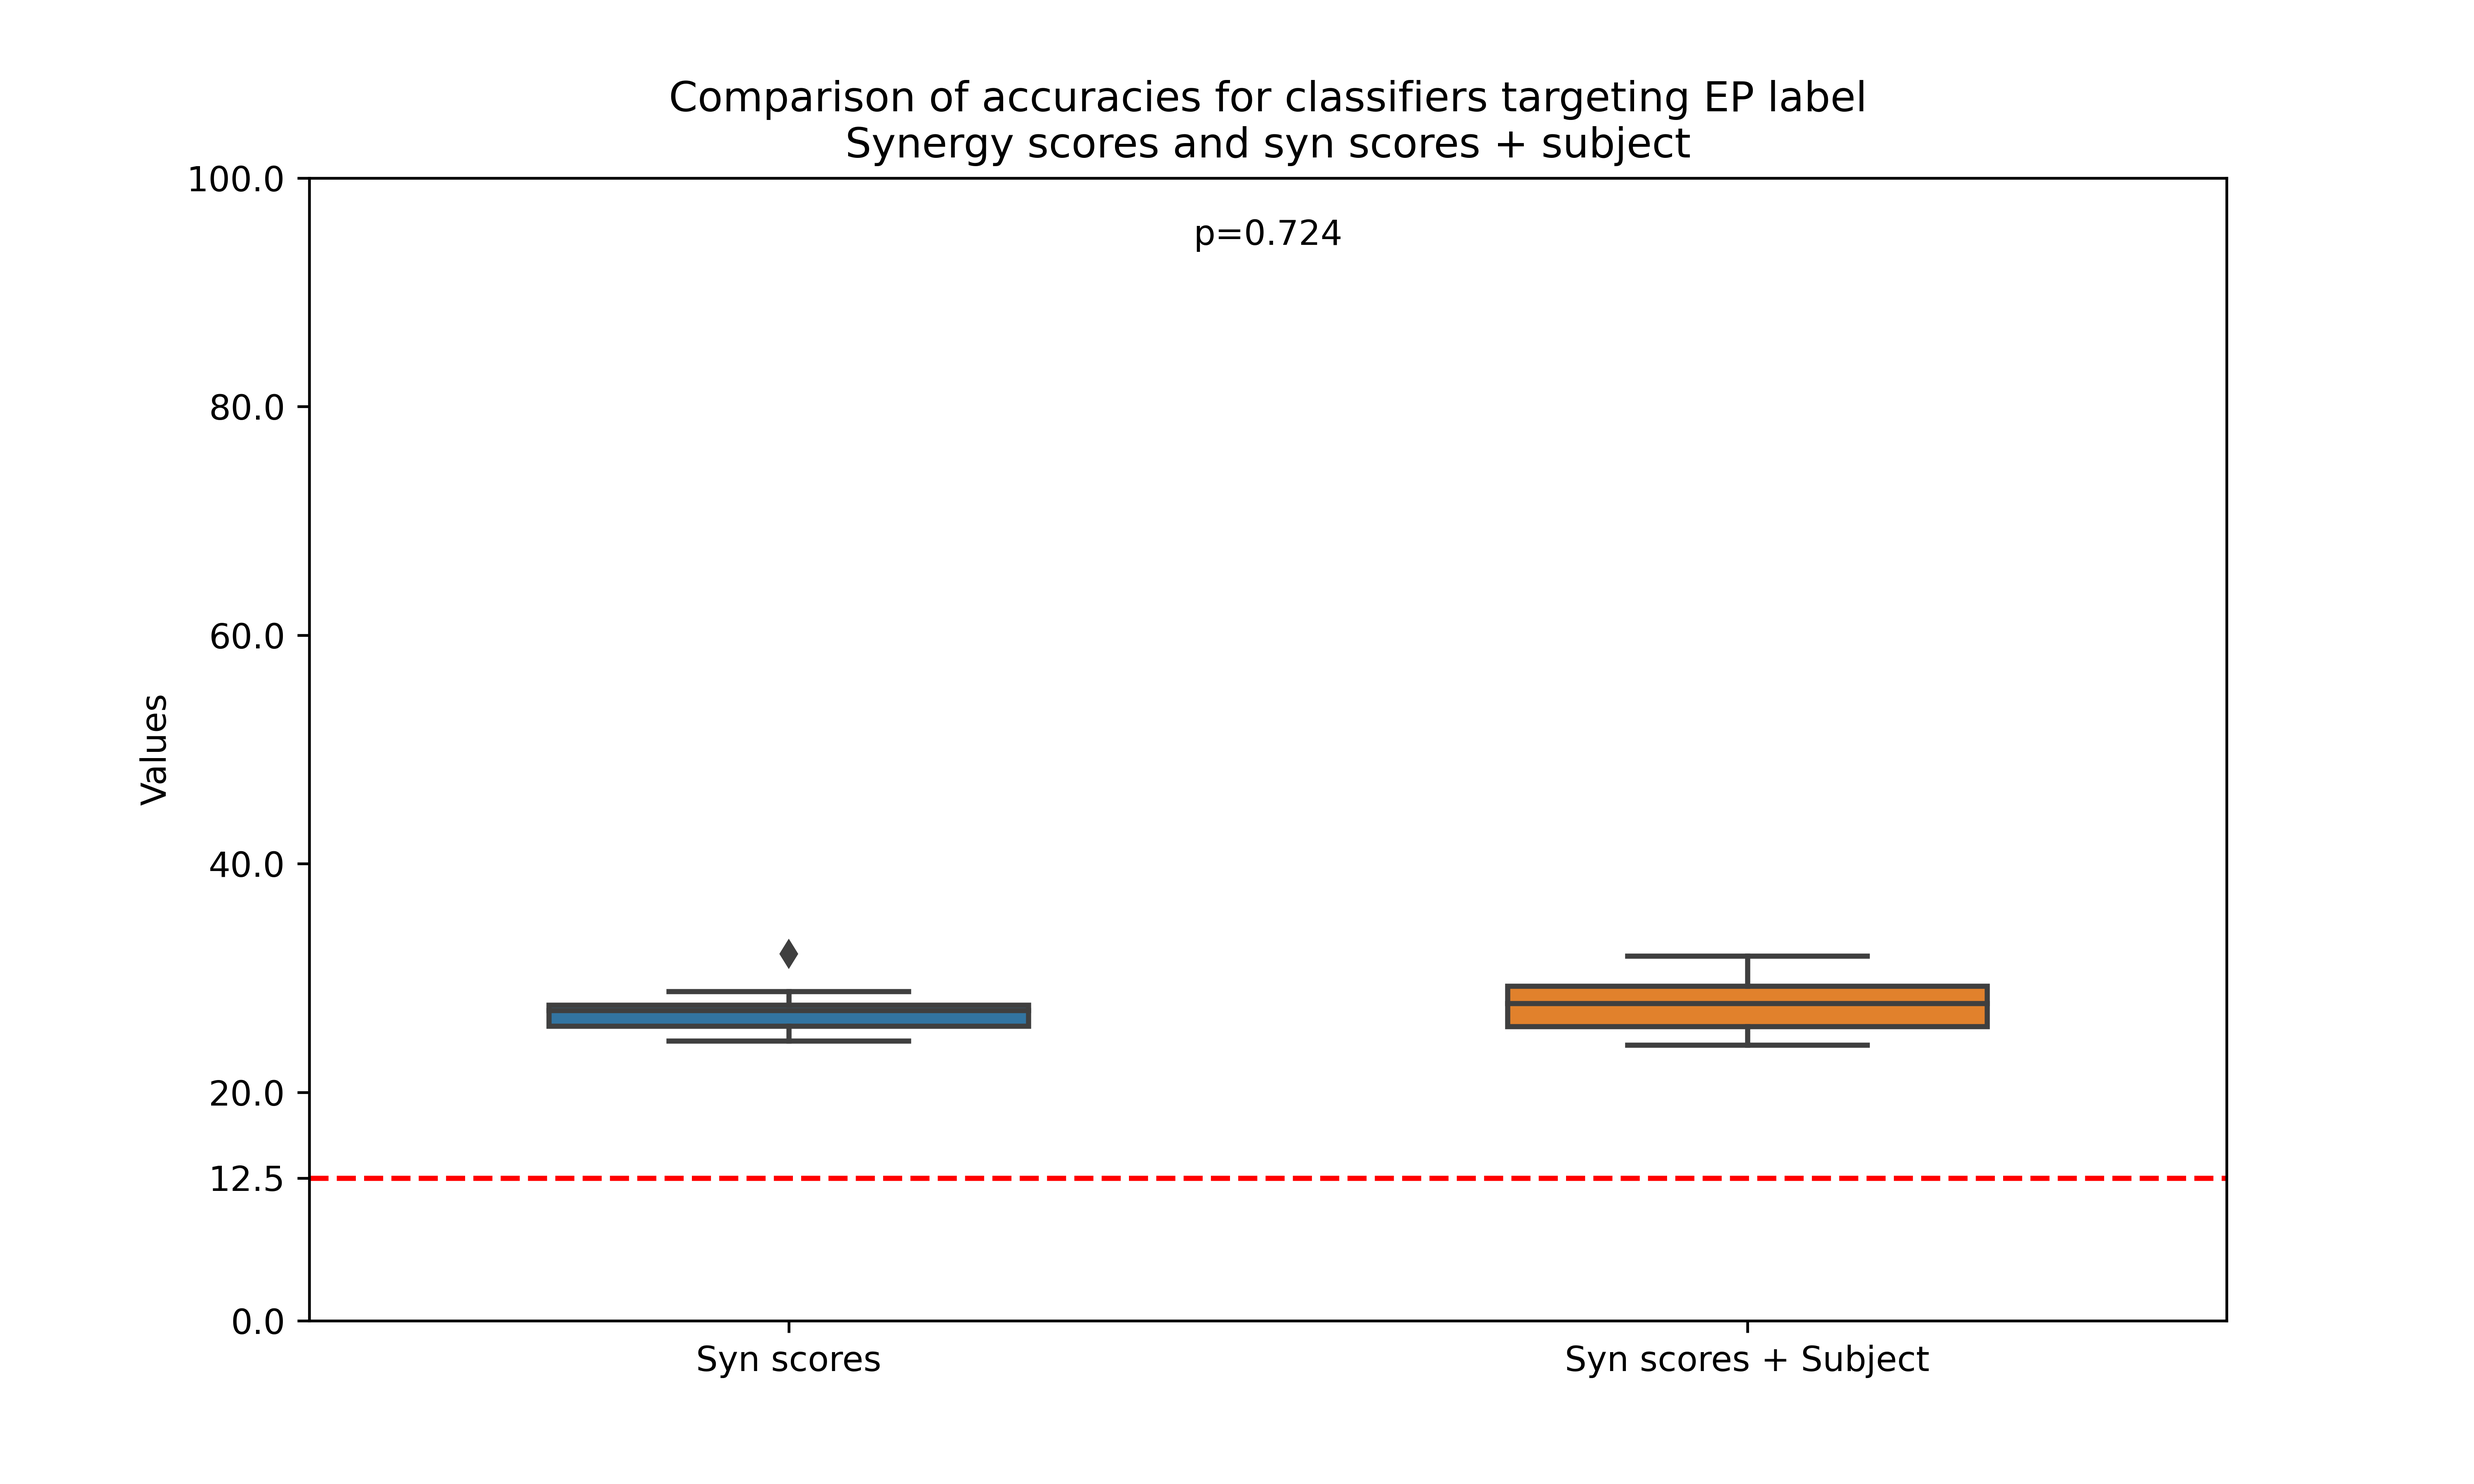
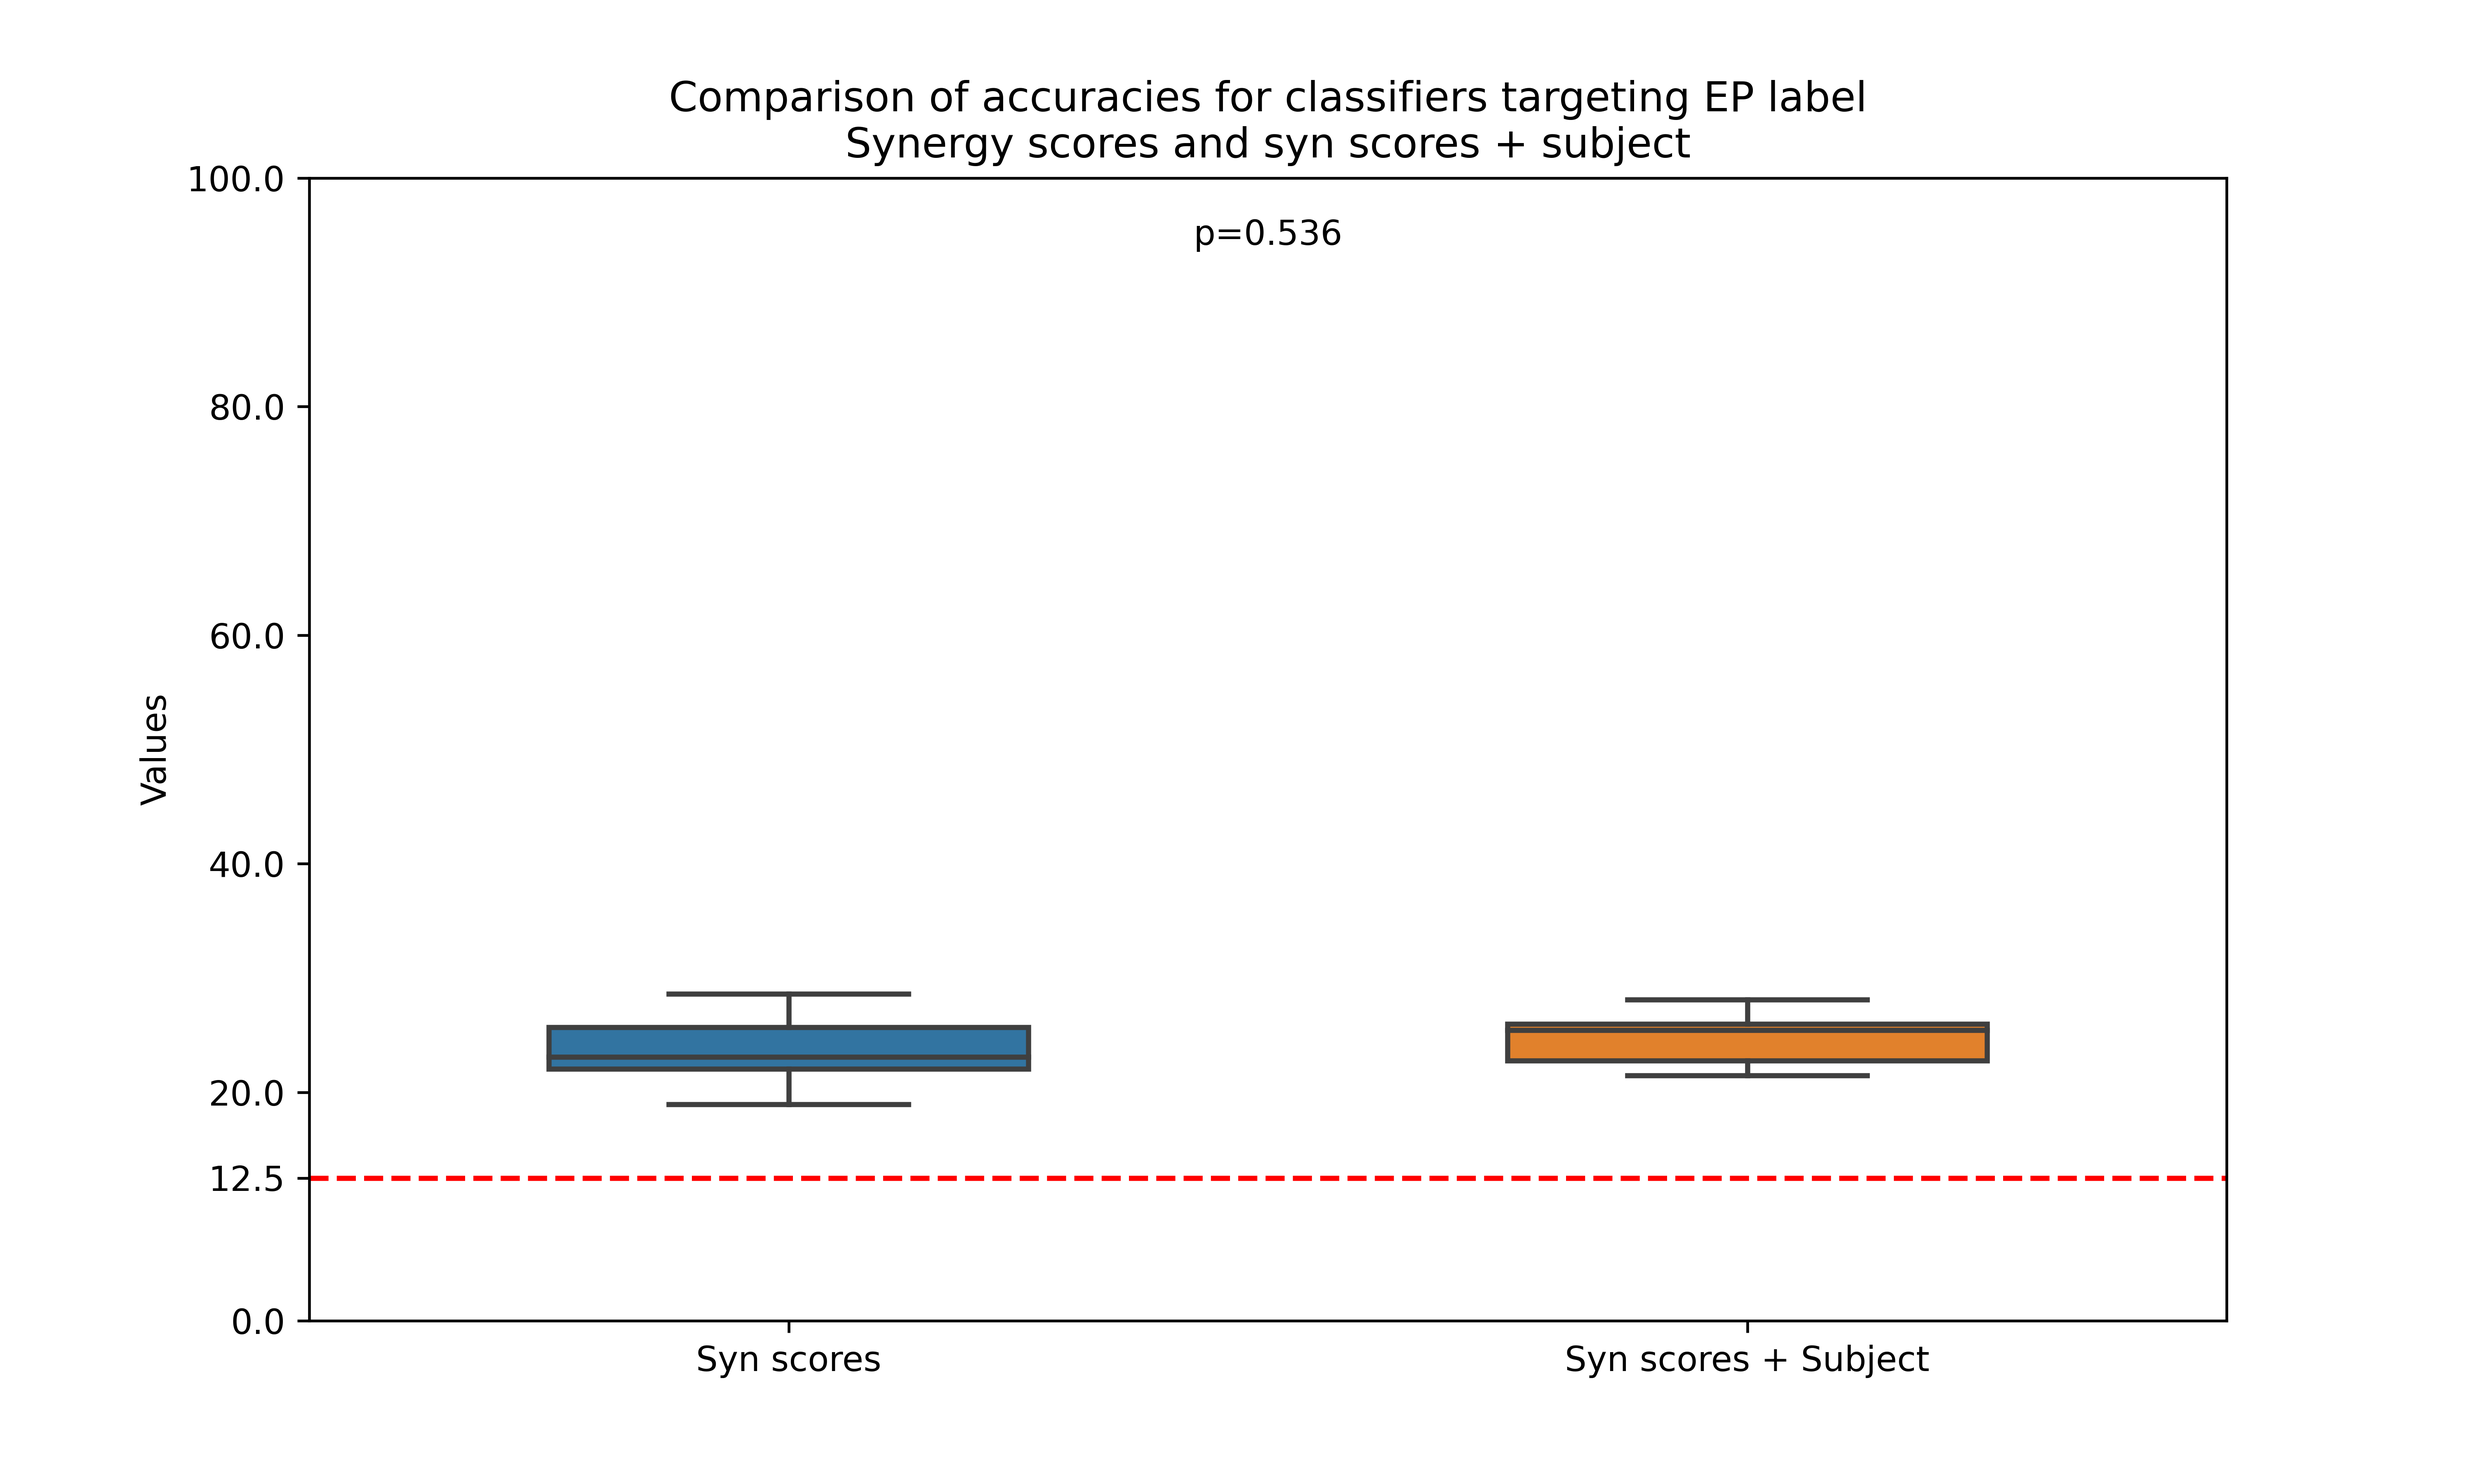
SGD classifier
- Code prepared for EP classification based on synergies, but now using SGD classifier with minibatch training

Changed region(s): [[0.5922, 0.6222, 0.8103, 0.7467], [0.2182, 0.6533, 0.4363, 0.7467]]

diff --git a/PyCode/AllPython/ep_modelling.py b/PyCode/AllPython/ep_modelling.py
@@ -2,9 +2,9 @@ import numpy as np
 import os
 import itertools
 from sklearn.model_selection import StratifiedKFold
-from sklearn.linear_model import LogisticRegression
+from sklearn.linear_model import LogisticRegression, SGDClassifier
 from collections import Counter
-from sklearn.utils.class_weight import compute_sample_weight
+from sklearn.utils.class_weight import compute_sample_weight, compute_class_weight
 from sklearn.preprocessing import OneHotEncoder
 from sklearn.preprocessing import StandardScaler
 from sklearn.decomposition import PCA
@@ -106,7 +106,9 @@ def ep_from_scores_classif(include_suj):
 
         """NOPE"""
 
-        result_kin = pool.map_async(kin_ep_classif, kin_data_and_iter)
+        # result_kin = pool.map_async(kin_ep_classif, kin_data_and_iter)
+        result_kin = pool.map_async(kin_ep_classif_sgdb, kin_data_and_iter)
+
         # result_emg_pca = pool.map_async(emg_pca_syn_classif, emg_pca_data_and_iter)
         # result_tact = pool.map_async(tact_syn_classif, tact_data_and_iter)
 
@@ -229,8 +231,145 @@ def kin_ep_classif(input_data):
             # train model
             trn_weights = compute_sample_weight(class_weight='balanced', y=train_labels)
             log_model.fit(X=train_data, y=train_labels, sample_weight=trn_weights)
-            tst_weights = compute_sample_weight(class_weight='balanced', y=test_labels)
-            sc = round(log_model.score(X=test_data, y=test_labels, sample_weight=tst_weights) * 100, 2)
+            # tst_weights = compute_sample_weight(class_weight='balanced', y=test_labels)
+            # sc = round(log_model.score(X=test_data, y=test_labels, sample_weight=tst_weights) * 100, 2)
+            sc = round(log_model.score(X=test_data, y=test_labels) * 100, 2)
+            total_score.append(sc)
+
+    result = ['Kin']
+    result.extend(input_data[2])
+    result.append(total_score)
+    result.append(round(np.mean(total_score), 2))
+    # print("RESULT:", result)
+
+    return result
+
+def kin_ep_classif_sgdb(input_data):
+
+    kin_scores = input_data[0]
+    extra_data = input_data[1]
+    # perc_syns = input_data[2][0]
+    perc_syns = 100
+    # family = input_data[2][1]
+    l1VSl2 = input_data[2][0]
+    c_param = input_data[2][1]
+    cv = input_data[3]
+    kin_bins = input_data[4]
+
+    discard = input_data[5]
+
+    include_suj = input_data[6]
+
+    total_score = []
+
+    num_syns = np.ceil(len(kin_scores.columns) * perc_syns / 100)
+    extra_data.reset_index(inplace=True, drop=True)
+    kin_scores.reset_index(inplace=True, drop=True)
+
+    if discard == 'less':
+        data_df = pd.concat([kin_scores.iloc[:, 0:int(num_syns)], extra_data], axis=1)  # keeps most relevant
+    else:
+        data_df = pd.concat([kin_scores.iloc[:, -int(num_syns):], extra_data], axis=1)  # discards most relevant
+
+    # selected_df = data_df.loc[data_df['Family'] == family]
+    to_kfold = data_df.drop_duplicates(subset=['EP total', 'EP'])
+
+    if include_suj:
+        encoder = OneHotEncoder(sparse_output=False)
+        encoded_suj = encoder.fit(to_kfold[['Subject']])
+
+    random_states = [42, 43, 44]
+    for rnd_st in random_states:
+
+        skf = StratifiedKFold(n_splits=cv, shuffle=True, random_state=rnd_st)
+        # WARNING: the skf.split returns the indexes
+        for train, test in skf.split(to_kfold['EP total'].astype(int), to_kfold['EP'].astype(str)):
+
+            train_trials = to_kfold.iloc[train]['EP total']  # because skf.split returns the indexes
+            test_trials = to_kfold.iloc[test]['EP total']  # because skf.split returns the indexes
+
+            train_data = []
+            train_labels = []
+
+            dropped = 0  # Number of dropped EPs
+
+            # take each ep, create bins & compute mean
+            for trn_iter in train_trials:
+
+                train_tri = data_df.loc[data_df['EP total'] == trn_iter]
+                tr_kin_data = train_tri.drop(columns=extra_data.columns)
+                tr_in_bins = np.array_split(tr_kin_data, kin_bins)
+
+                with warnings.catch_warnings():
+                    warnings.filterwarnings('error')
+                    try:
+                        tr_bin_mean = [np.nanmean(x, axis=0) for x in tr_in_bins]  # size = [num_bins] X [64]
+                        flat_tr_mean = list(
+                            itertools.chain.from_iterable(tr_bin_mean))  # size = [num_bins X 64] (unidimensional)
+                        if include_suj:
+                            transformed_sample = encoder.transform(train_tri[['Subject']])[0]
+                            flat_tr_mean.extend(transformed_sample)
+                        train_data.append(flat_tr_mean)
+                        train_labels.append(np.unique(train_tri['EP'])[0])
+                    except RuntimeWarning:
+                        # print("Dropped EP", trn_iter, "from family ", family)
+                        dropped += 1
+
+            test_data = []
+            test_labels = []
+
+            for tst_iter in test_trials:
+
+                test_tri = data_df.loc[data_df['EP total'] == tst_iter]
+                tst_kin_data = test_tri.drop(columns=extra_data.columns)
+                tst_in_bins = np.array_split(tst_kin_data, kin_bins)
+
+                with warnings.catch_warnings():
+                    warnings.filterwarnings('error')
+                    try:
+                        tst_bin_mean = [np.nanmean(x, axis=0) for x in tst_in_bins]  # size = [num_bins] X [64]
+                        flat_tst_mean = list(
+                            itertools.chain.from_iterable(tst_bin_mean))  # size = [num_bins X 64] (unidimensional)
+                        if include_suj:
+                            transformed_sample = encoder.transform(test_tri[['Subject']])[0]
+                            flat_tst_mean.extend(transformed_sample)
+                        test_data.append(flat_tst_mean)
+                        test_labels.append(np.unique(test_tri['EP'])[0])
+                    except RuntimeWarning:
+                        # print("Dropped EP", tst_iter, "from family ", family)
+                        dropped += 1
+
+            alpha_param = 1 / c_param  # Alpha is the inverse of regularization strength (C)
+            batch_size = 50  # Define your batch size here
+
+            # Create the SGDClassifier model with logistic regression
+            sgd_model = SGDClassifier(loss='log_loss', penalty='elasticnet', alpha=alpha_param, l1_ratio=l1VSl2,
+                                      random_state=rnd_st, max_iter=10000, warm_start=True, learning_rate='optimal',
+                                       eta0=0.01)
+
+            # Compute the sample weights for the entire dataset
+            classes = np.unique(train_labels)
+            # Compute class weights
+            class_weights = compute_class_weight('balanced', classes=classes, y=train_labels)
+            # Convert class weights to dictionary format
+            class_weight_dict = {classes[i]: class_weights[i] for i in range(len(classes))}
+
+            # Mini-batch training
+            for _ in range(100000 // batch_size):  # Assuming 100000 iterations as max, adjust as needed
+                # Randomly sample a batch of data
+                batch_indices = np.random.choice(range(len(train_data)), size=batch_size, replace=False)
+                batch_indices_list = batch_indices.tolist()
+
+                batch_data = [train_data[i] for i in batch_indices_list]
+                batch_labels = [train_labels[i] for i in batch_indices_list]
+                # batch_weights = [trn_weights[i] for i in batch_indices_list]
+                batch_weights = np.array([class_weight_dict[label] for label in batch_labels])
+
+                # Partial fit on the batch
+                sgd_model.partial_fit(batch_data, batch_labels, classes=classes, sample_weight=batch_weights)
+
+            # Evaluate the model
+            sc = round(sgd_model.score(X=test_data, y=test_labels) * 100, 2)
             total_score.append(sc)
 
     result = ['Kin']

diff --git a/PyCode/AllPython/ObjectClassifier.py b/PyCode/AllPython/ObjectClassifier.py
@@ -194,12 +194,12 @@ def main():
     # syn_clustering()
     # print("\nSynergy clustering done!")
 
-    syn_clustering_alternative()
-    print("\nSynergy alternative clustering done!")
-
-    # score_reordering('agglomerative')
-    score_reordering('alternative')
-    print("\nSynergy reordering done!")
+    # syn_clustering_alternative()
+    # print("\nSynergy alternative clustering done!")
+    #
+    # # score_reordering('agglomerative')
+    # score_reordering('alternative')
+    # print("\nSynergy reordering done!")
 
 
     ###################################
